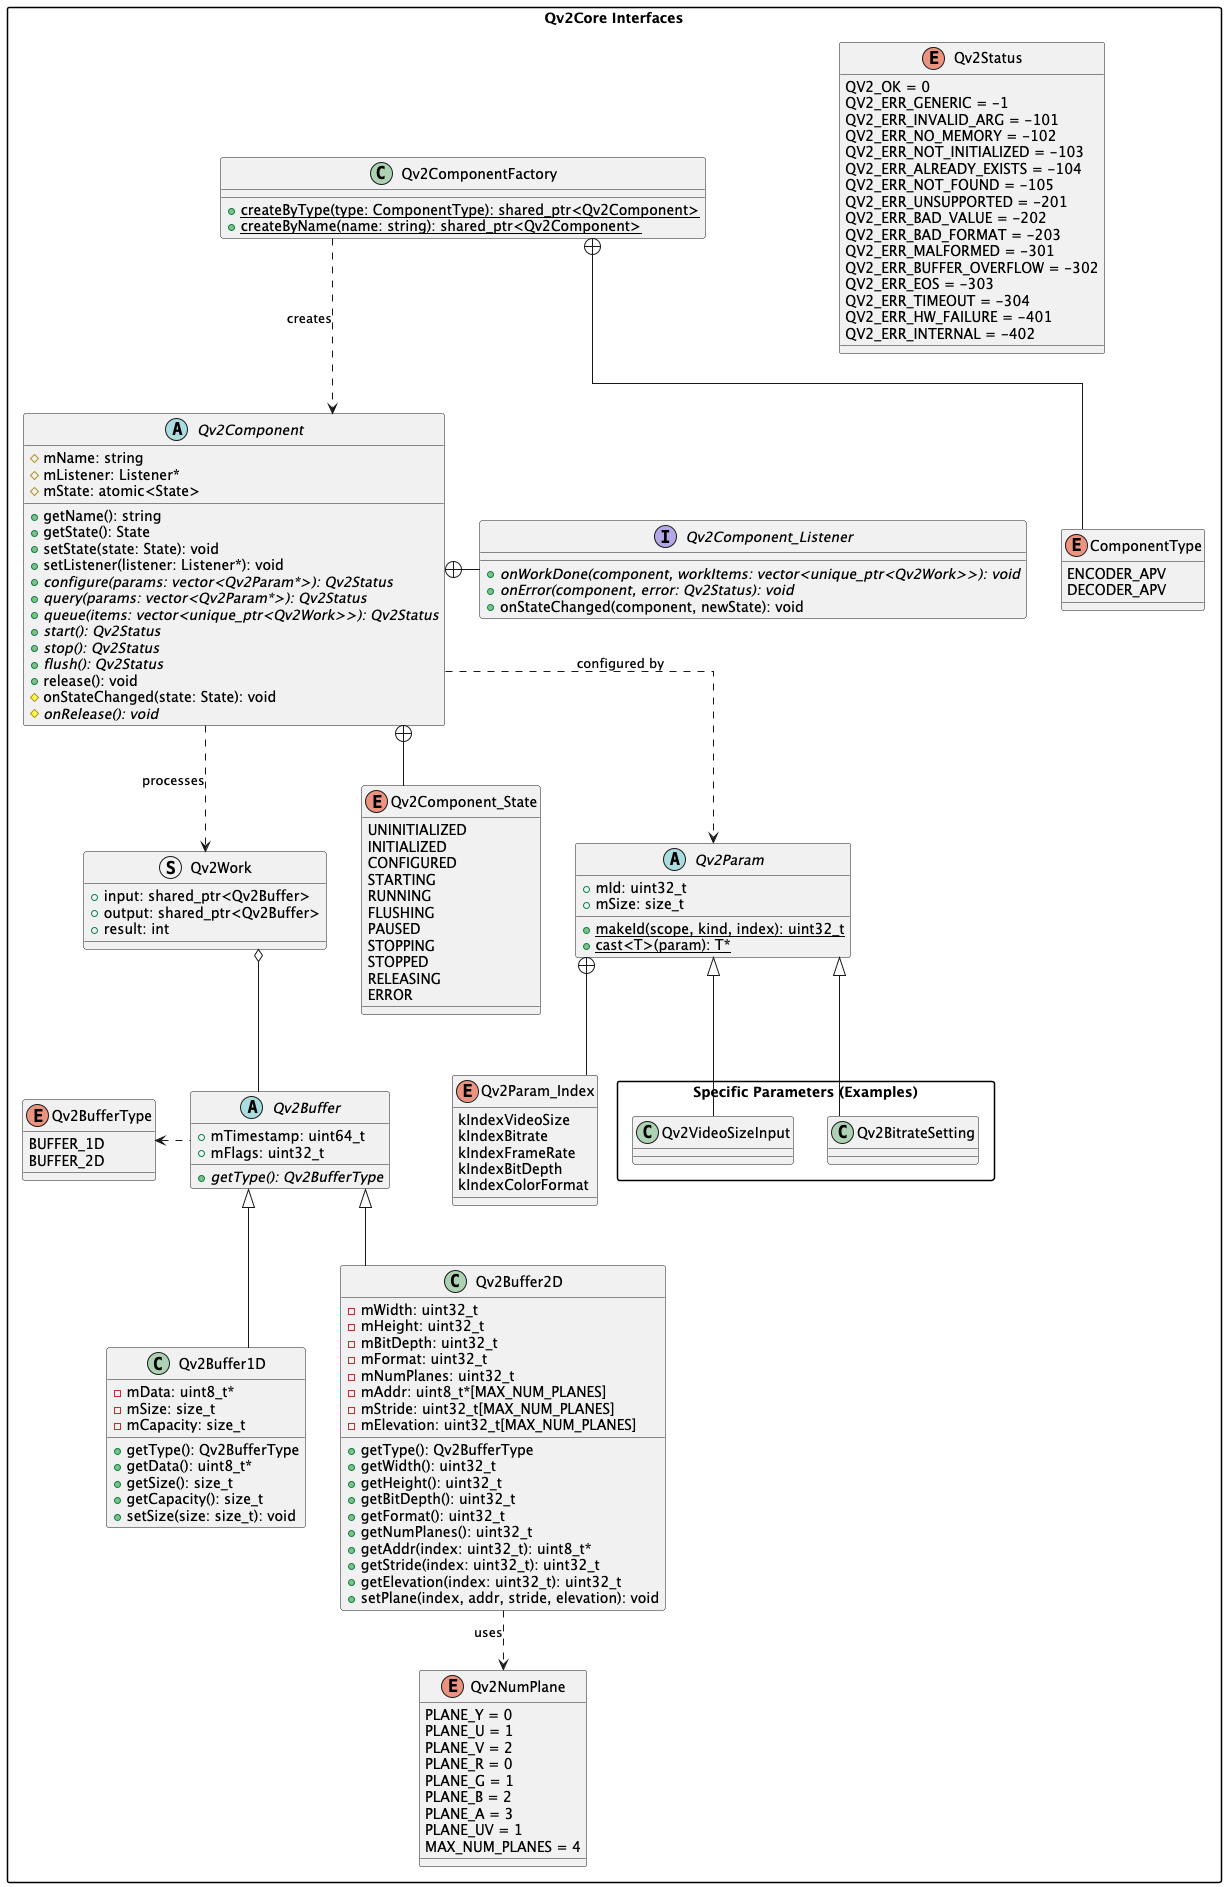
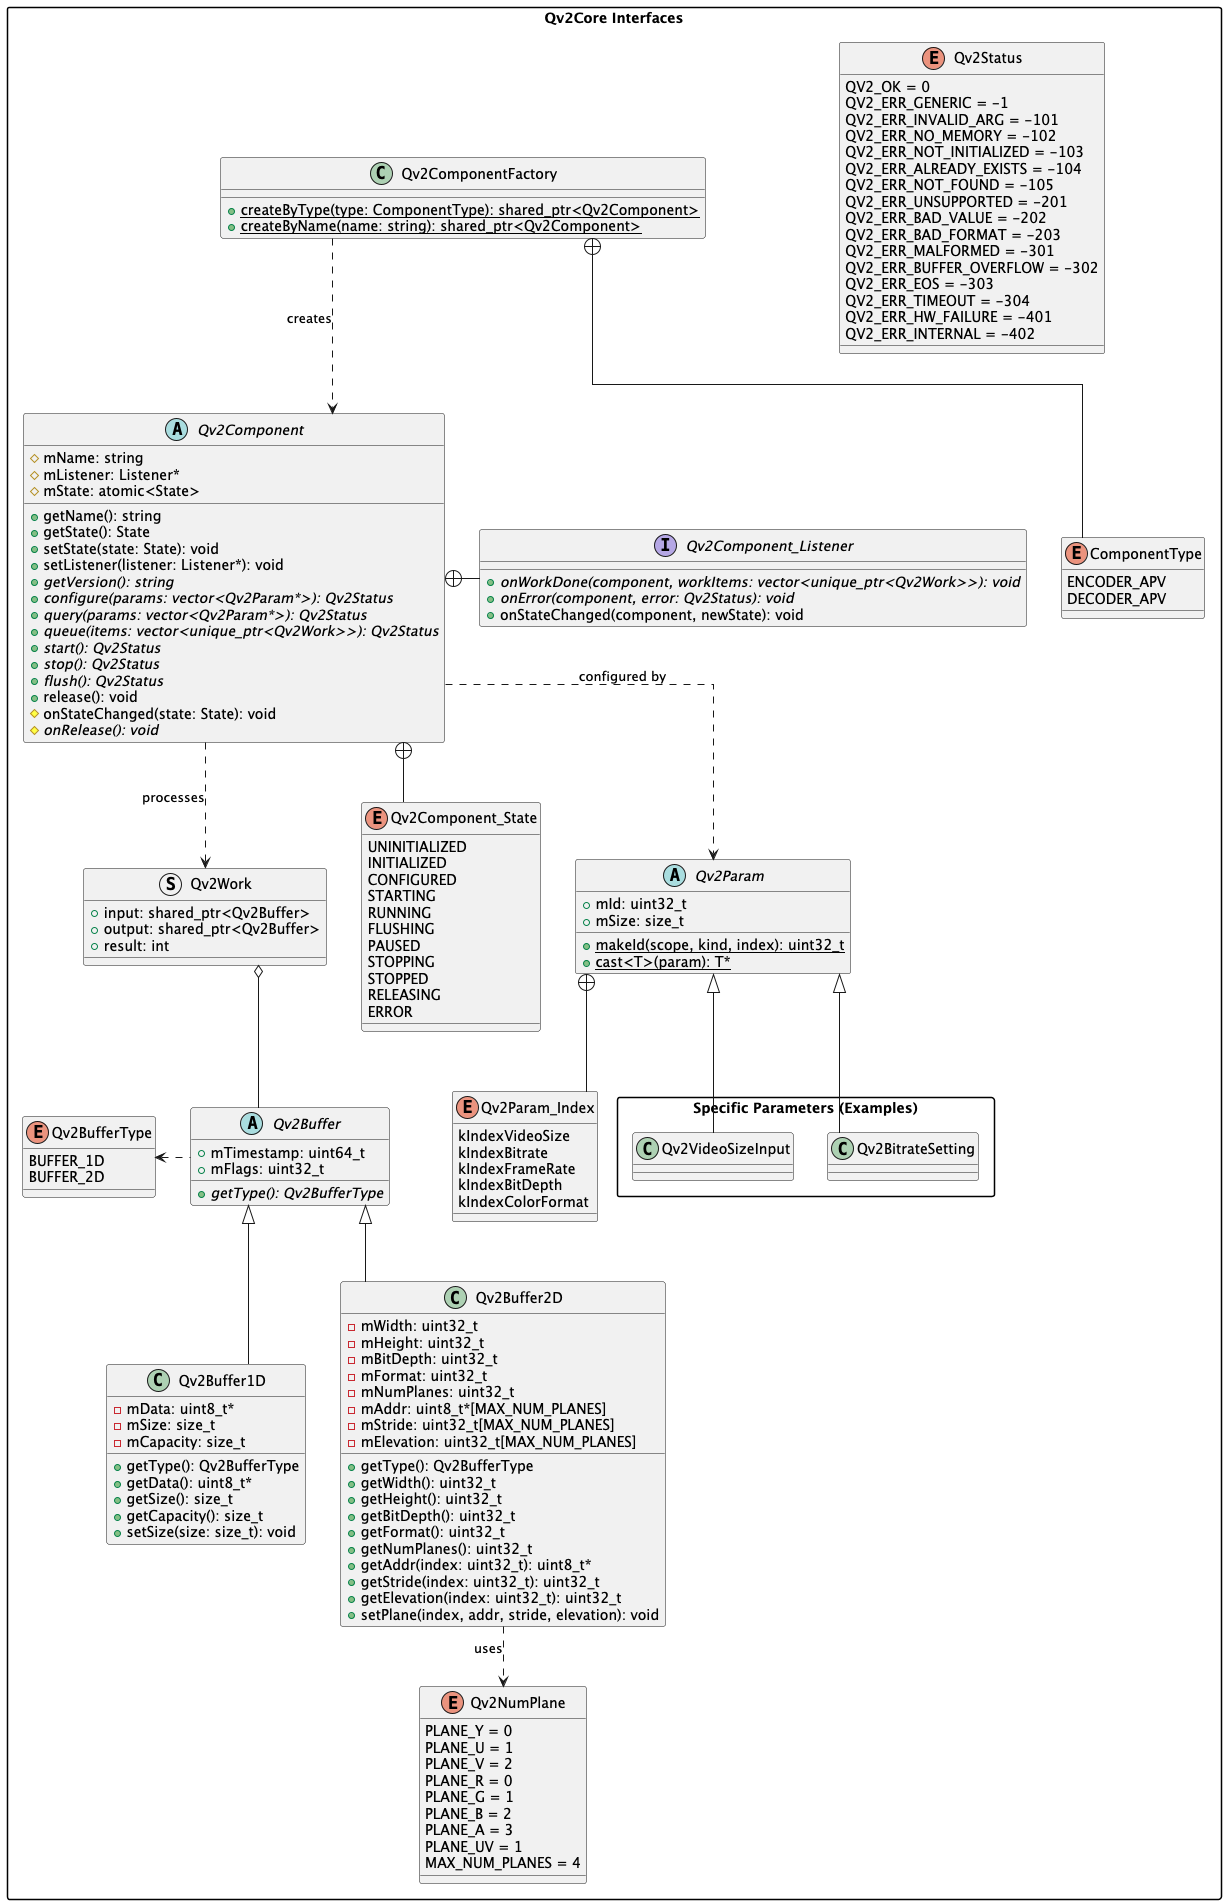
- Add the getVersion interface for Qv2Component

diff --git a/codecs/hevc/dec/Qv2HevcDecoder.cpp b/codecs/hevc/dec/Qv2HevcDecoder.cpp
@@ -10,6 +10,11 @@ Qv2HevcDecoder::~Qv2HevcDecoder() {
     release();
 }
 
+std::string Qv2HevcDecoder::getVersion() const {
+    // TODO: Return actual HEVC decoder library version
+    return "HEVC Decoder v1.0 (Stub)";
+}
+
 Qv2Status Qv2HevcDecoder::configure(const std::vector<Qv2Param*>& params) {
     // TODO: Implement HEVC decoding configuration logic
     setState(CONFIGURED);
@@ -17,29 +22,24 @@ Qv2Status Qv2HevcDecoder::configure(const std::vector<Qv2Param*>& params) {
 }
 
 Qv2Status Qv2HevcDecoder::query(std::vector<Qv2Param*>& params) const {
-    // TODO: Implement query logic
     return QV2_OK;
 }
 
 Qv2Status Qv2HevcDecoder::queue(std::vector<std::unique_ptr<Qv2Work>> items) {
-    // TODO: Implement HEVC decoding logic
     return QV2_OK;
 }
 
 Qv2Status Qv2HevcDecoder::start() {
-    // TODO: Initialize HEVC decoder
     setState(RUNNING);
     return QV2_OK;
 }
 
 Qv2Status Qv2HevcDecoder::stop() {
-    // TODO: Stop HEVC decoding process
     setState(STOPPED);
     return QV2_OK;
 }
 
 Qv2Status Qv2HevcDecoder::flush() {
-    // TODO: Flush remaining frames
     return QV2_OK;
 }
 
@@ -48,5 +48,4 @@ void Qv2HevcDecoder::onStateChanged(State state) {
 }
 
 void Qv2HevcDecoder::onRelease() {
-    // TODO: Cleanup HEVC decoder resources
 }

diff --git a/codecs/hevc/enc/Qv2HevcEncoder.cpp b/codecs/hevc/enc/Qv2HevcEncoder.cpp
@@ -10,6 +10,11 @@ Qv2HevcEncoder::~Qv2HevcEncoder() {
     release();
 }
 
+std::string Qv2HevcEncoder::getVersion() const {
+    // TODO: Return actual HEVC encoder library version
+    return "HEVC Encoder v1.0 (Stub)";
+}
+
 Qv2Status Qv2HevcEncoder::configure(const std::vector<Qv2Param*>& params) {
     // TODO: Implement HEVC encoding configuration logic
     setState(CONFIGURED);
@@ -17,29 +22,24 @@ Qv2Status Qv2HevcEncoder::configure(const std::vector<Qv2Param*>& params) {
 }
 
 Qv2Status Qv2HevcEncoder::query(std::vector<Qv2Param*>& params) const {
-    // TODO: Implement query logic
     return QV2_OK;
 }
 
 Qv2Status Qv2HevcEncoder::queue(std::vector<std::unique_ptr<Qv2Work>> items) {
-    // TODO: Implement HEVC encoding logic
     return QV2_OK;
 }
 
 Qv2Status Qv2HevcEncoder::start() {
-    // TODO: Initialize HEVC encoder
     setState(RUNNING);
     return QV2_OK;
 }
 
 Qv2Status Qv2HevcEncoder::stop() {
-    // TODO: Stop HEVC encoding process
     setState(STOPPED);
     return QV2_OK;
 }
 
 Qv2Status Qv2HevcEncoder::flush() {
-    // TODO: Flush remaining frames
     return QV2_OK;
 }
 
@@ -48,5 +48,4 @@ void Qv2HevcEncoder::onStateChanged(State state) {
 }
 
 void Qv2HevcEncoder::onRelease() {
-    // TODO: Cleanup HEVC encoder resources
 }

diff --git a/codecs/apv/enc/Qv2ApvEncoder.h b/codecs/apv/enc/Qv2ApvEncoder.h
@@ -12,6 +12,7 @@ public:
     ~Qv2ApvEncoder() override;
 
     // Qv2Component overrides
+    std::string getVersion() const override;
     Qv2Status configure(const std::vector<Qv2Param*>& params) override;
     Qv2Status query(std::vector<Qv2Param*>& params) const override;
     Qv2Status queue(std::vector<std::unique_ptr<Qv2Work>> items) override;
@@ -22,6 +23,20 @@ public:
 protected:
     void onStateChanged(State state) override;
     void onRelease() override;
+
+private:
+    oapve_t mEncoderId = nullptr;
+    oapvm_t mMetaDataId = nullptr;
+    uint8_t* mBitstreamBuf = nullptr;
+    
+    std::unique_ptr<oapve_cdesc_t> mCodecDesc;
+    oapv_frms_t mInputFrames;
+    oapv_frms_t mReconFrames;
+    
+    int mColorFormat;
+    int mBitDepth;
+    
+    static const int CODEC_MAX_CORES = 4;
 };
 
 #endif // QV2APVENCODER_H

diff --git a/codecs/apv/dec/Qv2ApvDecoder.cpp b/codecs/apv/dec/Qv2ApvDecoder.cpp
@@ -10,6 +10,12 @@ Qv2ApvDecoder::~Qv2ApvDecoder() {
     release();
 }
 
+std::string Qv2ApvDecoder::getVersion() const {
+    unsigned int ver_num;
+    const char* ver_str = oapv_version(&ver_num);
+    return std::string("OpenAPV ") + ver_str;
+}
+
 Qv2Status Qv2ApvDecoder::configure(const std::vector<Qv2Param*>& params) {
     // TODO: Implement configuration logic
     setState(CONFIGURED);

diff --git a/codecs/apv/enc/Qv2ApvEncoder.cpp b/codecs/apv/enc/Qv2ApvEncoder.cpp
@@ -10,6 +10,12 @@ Qv2ApvEncoder::~Qv2ApvEncoder() {
     release();
 }
 
+std::string Qv2ApvEncoder::getVersion() const {
+    unsigned int ver_num;
+    const char* ver_str = oapv_version(&ver_num);
+    return std::string("OpenAPV ") + ver_str;
+}
+
 Qv2Status Qv2ApvEncoder::configure(const std::vector<Qv2Param*>& params) {
     // TODO: Implement configuration logic
     setState(CONFIGURED);

diff --git a/codecs/hevc/dec/Qv2HevcDecoder.h b/codecs/hevc/dec/Qv2HevcDecoder.h
@@ -11,6 +11,7 @@ public:
     ~Qv2HevcDecoder() override;
 
     // Qv2Component overrides
+    std::string getVersion() const override;
     Qv2Status configure(const std::vector<Qv2Param*>& params) override;
     Qv2Status query(std::vector<Qv2Param*>& params) const override;
     Qv2Status queue(std::vector<std::unique_ptr<Qv2Work>> items) override;

diff --git a/codecs/hevc/enc/Qv2HevcEncoder.h b/codecs/hevc/enc/Qv2HevcEncoder.h
@@ -11,6 +11,7 @@ public:
     ~Qv2HevcEncoder() override;
 
     // Qv2Component overrides
+    std::string getVersion() const override;
     Qv2Status configure(const std::vector<Qv2Param*>& params) override;
     Qv2Status query(std::vector<Qv2Param*>& params) const override;
     Qv2Status queue(std::vector<std::unique_ptr<Qv2Work>> items) override;

diff --git a/codecs/apv/dec/Qv2ApvDecoder.h b/codecs/apv/dec/Qv2ApvDecoder.h
@@ -12,6 +12,7 @@ public:
     ~Qv2ApvDecoder() override;
 
     // Qv2Component overrides
+    std::string getVersion() const override;
     Qv2Status configure(const std::vector<Qv2Param*>& params) override;
     Qv2Status query(std::vector<Qv2Param*>& params) const override;
     Qv2Status queue(std::vector<std::unique_ptr<Qv2Work>> items) override;

diff --git a/codecs/Qv2Core/Qv2Component.h b/codecs/Qv2Core/Qv2Component.h
@@ -38,6 +38,8 @@ public:
     std::string getName() const { return mName; }
     State getState() const { return mState; }
     
+    virtual std::string getVersion() const = 0;
+
     void setState(State state) { 
         mState = state; 
         if (auto self = weak_from_this().lock()) {
